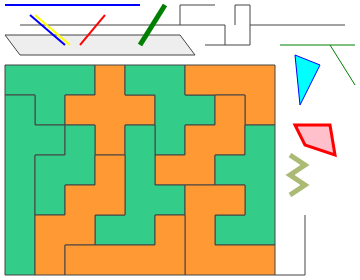
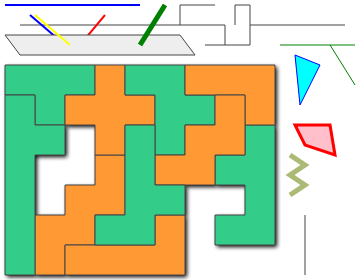
bump version

Changed region(s): [[0.0, 0.2286, 0.8556, 1.0], [0.1222, 0.1143, 0.1833, 0.1714], [0.2139, 0.1143, 0.2444, 0.1714]]

diff --git a/lib/ritaa/version.rb b/lib/ritaa/version.rb
@@ -1,5 +1,11 @@
 module Ritaa
-  VERSION = '0.2.0'
+  VERSION = '0.3.0'
+
+  ########## 0.3.0
+  #
+  # Drop-shadows can be added to polygons
+  # Faces which should not generate a polygon can be excluded
+  # Shapes can be given a z-value which will determine their relative position among shapes
 
   ########## 0.2.0
   #

diff --git a/README.md b/README.md
@@ -17,39 +17,40 @@ test.ritaa:
     |grn  |     |                 |           |org  |     |
     |     |     |                 |           |     |     |
     +     +-----+-----+     +-----+     +-----+     +-----+
-    |           |grn  |     |grn  |     |           |grn  |
+    |           |nil  |     |grn  |     |           |grn  |
     |           |     |     |     |     |           |     |
     +     +-----+     +-----+     +-----+     +-----+     +
     |     |           |org  |     |           |           |
     |     |           |     |     |           |           |
     +     +     +-----+     +     +-----+-----+-----+     +     +
-    |     |     |           |           |org        |     |
+    |     |     |           |           |           |     |
     |     |     |           |           |           |     |
     +     +-----+     +-----+     +-----+     +-----+     +     +
     |     |           |           |org  |     |           |     |
     |     |           |           |     |     |           |     +
     +     +     +-----+-----+-----+     +     +-----+-----+     |
-    |     |     |                       |                 |     +
-    |     |     |                       |                 |     |
-    +-----+-----+-----+-----+-----+-----+-----+-----+-----+-----+
+    |     |     |                       |                       +
+    |     |     |                       |                       |
+    +-----+-----+-----+-----+-----+-----+                  -----+
     edge {"x1": 0, "y1": 3, "x2": 3, "y2": 5}
     edge {"x1": 35, "y1": 3, "x2": 38, "y2": 5}
-    L1 {"x1": 20, "y1": 1, "x2": 15, "y2": 4, "stroke": "red"}
-    line {"x1": 5, "y1": 1, "x2": 12, "y2": 4}
-    line {"x1": 6, "y1": 1, "x2": 13, "y2": 4, "stroke": "yellow"}
-    L3 {"x1": 32, "y1": 0, "x2": 27, "y2": 4, "stroke": "green", "stroke-width": 5}
+    L1 {"x1": 20, "y1": 1, "x2": 15, "y2": 4, "stroke": "red", "z": 5}
+    line {"x1": 5, "y1": 1, "x2": 12, "y2": 4, "z": 5}
+    line {"x1": 6, "y1": 1, "x2": 13, "y2": 4, "stroke": "yellow", "z": 15}
+    L3 {"x1": 32, "y1": 0, "x2": 27, "y2": 4, "stroke": "green", "stroke-width": 5, "z": 15}
     image {"margin": 5, "stroke": "#444", "stroke-width": 1}
     lines {"stroke": "blue", "stroke-width": 2}
     polygons {"fill": "#ccc"}
     polylines {"fill": "none"}
     paths {"fill": "none"}
-    grn {"fill": "#3c8"}
-    org {"fill": "#f93"}
+    grn {"fill": "#3c8", "drop-shadow": true}
+    org {"fill": "#f93", "drop-shadow": true}
     polygon {"points": "58,5 63,6 59,10", "fill": "cyan", "stroke": "blue"}
     P2 {"points": "58,12 65,12 66,15 60,14", "fill": "pink", "stroke": "red", "stroke-width": 3}
     polyline {"points": "57,19 60,18 57,17 60,16 57,15", "stroke-width": 5, "stroke": "#abba74"}
     path {"d": "M 55,4 L 70,4 M 65,4 L 70,8", "stroke": "green"}
-    P1 {"fill": "#eee"}
+    P1 {"fill": "#eee", "z": 10}
+    drop-shadow {"blur": 2, "offset": 2, "fill": "#000"}
 
 <!-- . -->
 
